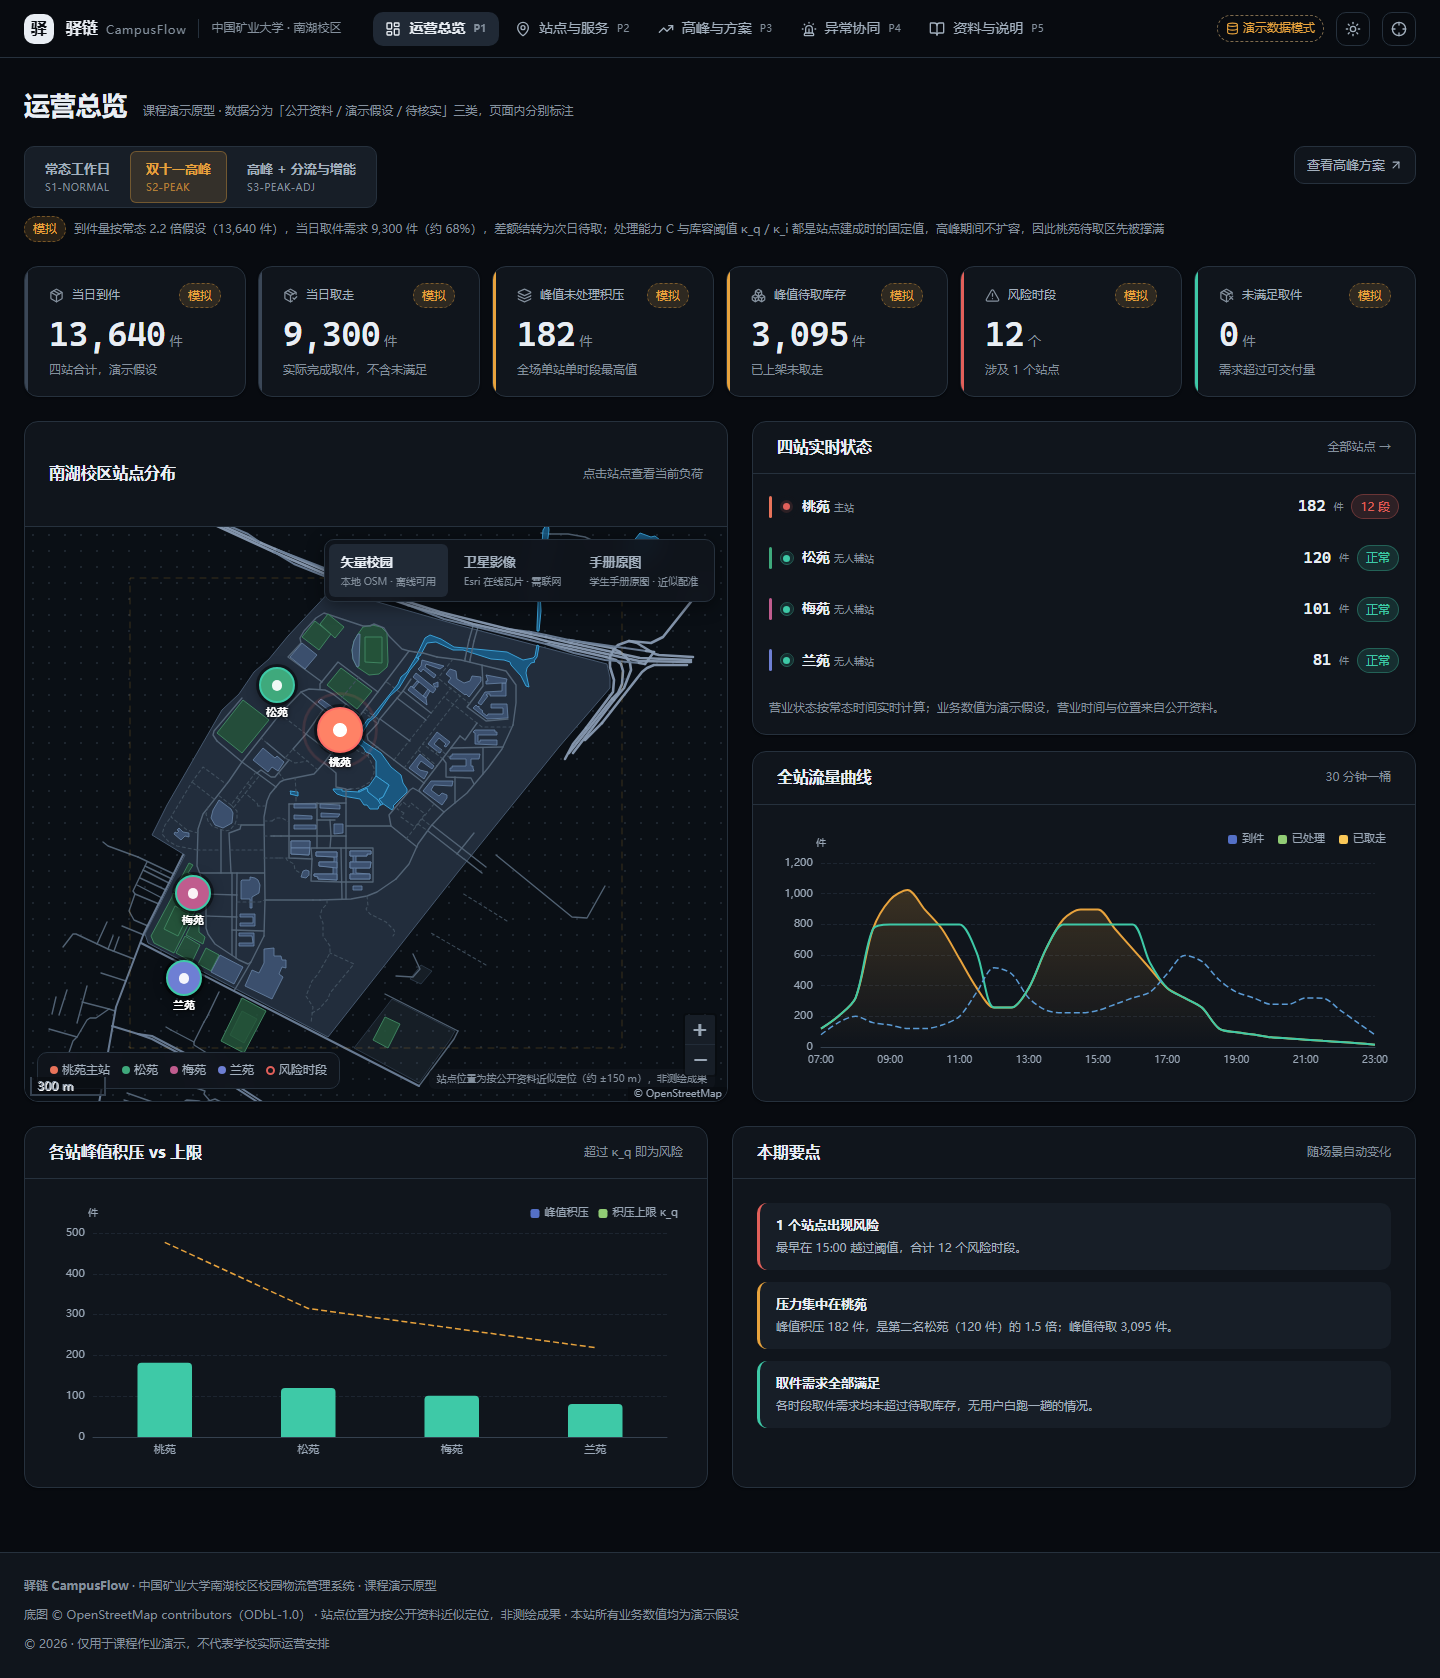
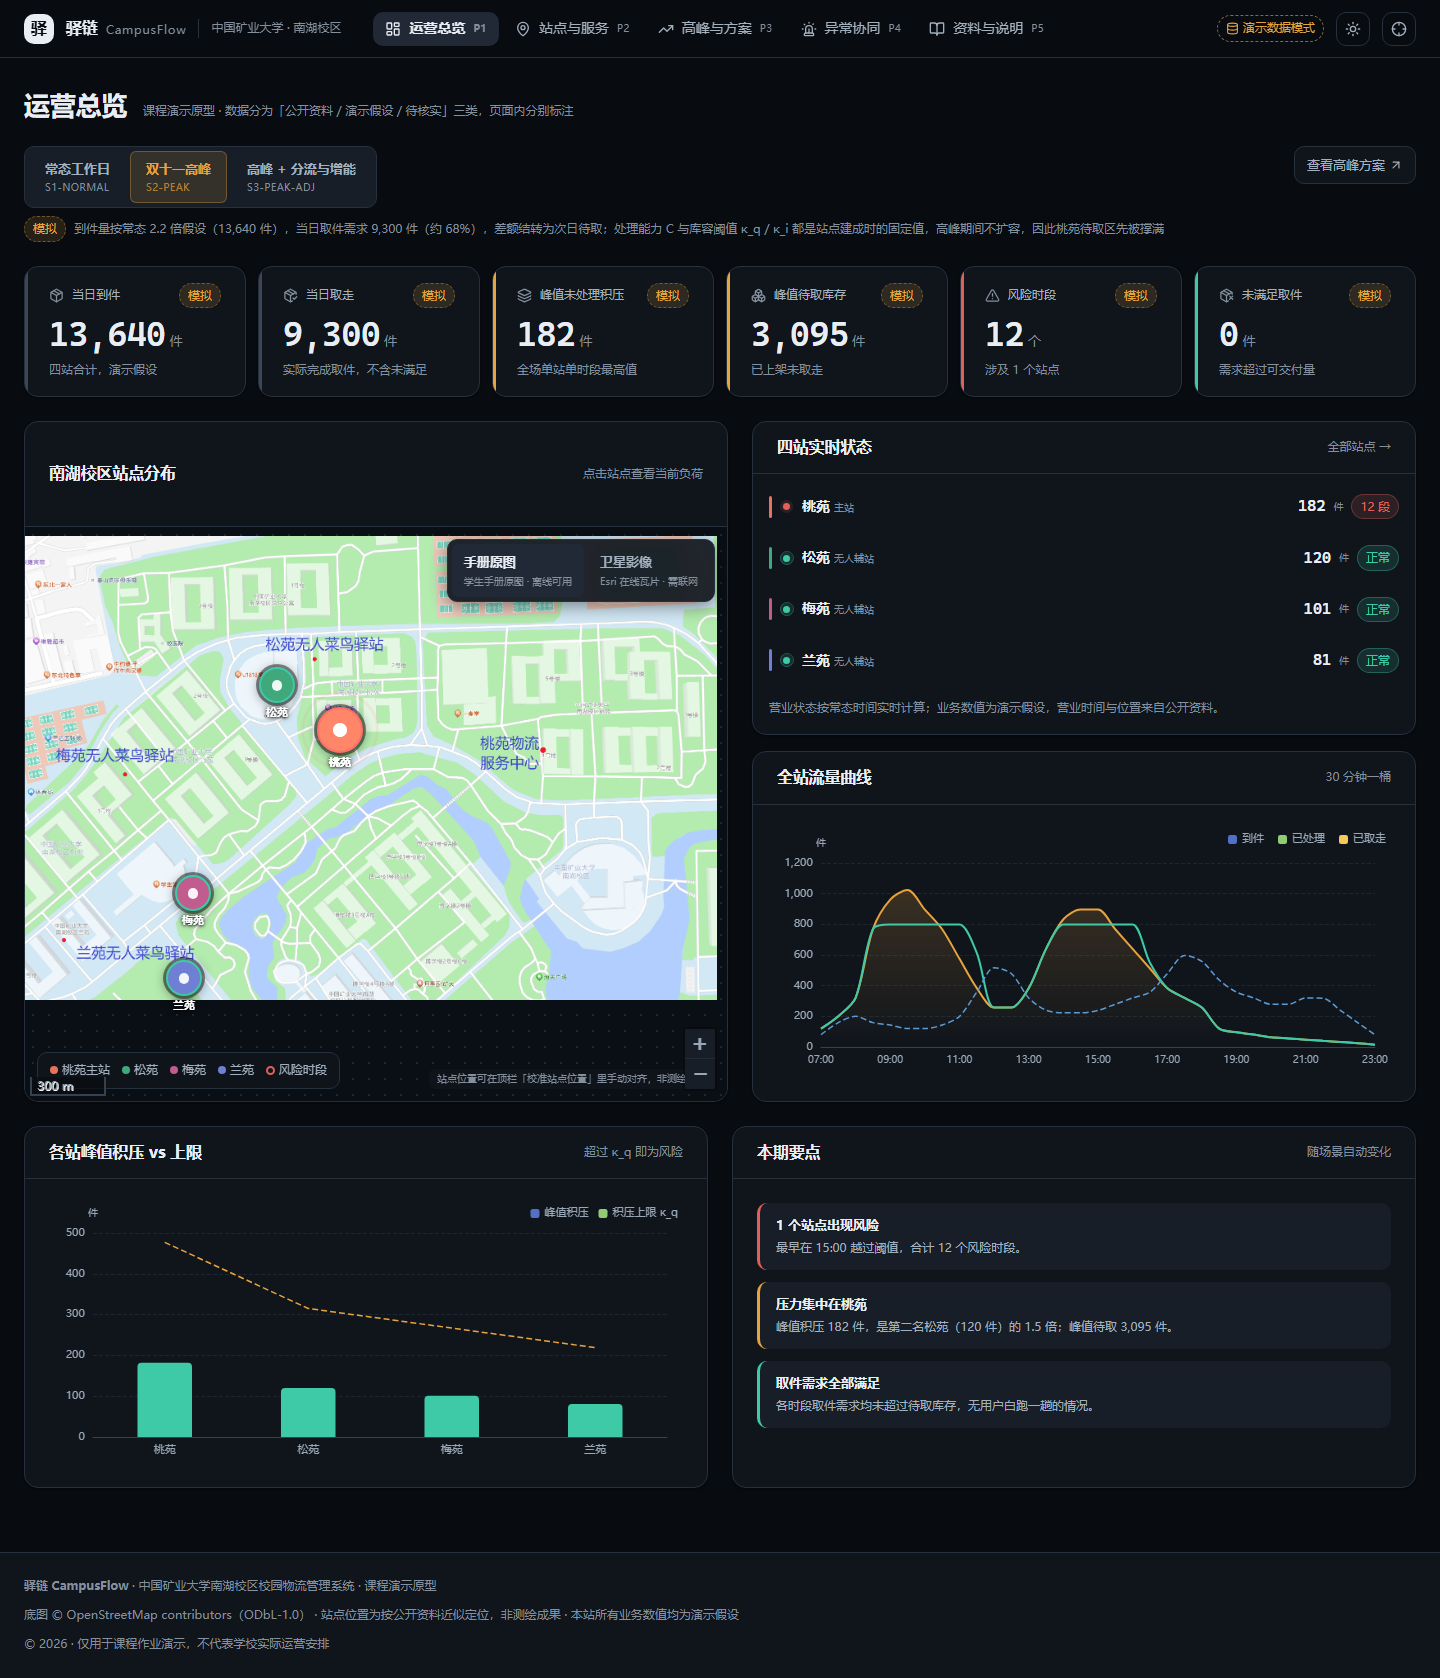
docs(map): 校准面板文案与截图更新；计划文档记录矢量层删除的原因

Changed region(s): [[0.0, 0.3099, 0.5, 0.6508]]

diff --git a/frontend/src/components/CalibratePanel.vue b/frontend/src/components/CalibratePanel.vue
@@ -279,8 +279,8 @@ function reset() {
         <section class="cal" role="dialog" aria-modal="true" aria-label="地图校准">
           <header class="cal__head">
             <div>
-              <h2>地图校准 · 把手册原图对齐到矢量底图</h2>
-              <p>拖动图片、滚轮缩放，让原图的路和楼与底图重合。四个红点位置是固定的，对齐后坐标由程序反算。</p>
+              <h2>地图校准 · 把手册原图对齐到卫星影像</h2>
+              <p>拖动图片、滚轮缩放，让原图的路和操场与卫星影像重合。四个红点的位置是固定的，对齐后坐标由程序反算。</p>
             </div>
             <button class="cal__close" aria-label="关闭" @click="emit('update:open', false)"><X :size="18" /></button>
           </header>
@@ -294,7 +294,7 @@ function reset() {
               @click="switchMode('align')"
             >
               ① 拖动原图对齐
-              <em>原图叠在底图上，拖到路和楼重合</em>
+              <em>原图半透明叠在卫星影像上，拖到重合</em>
             </button>
             <button
               class="cal__mode-btn"
@@ -304,7 +304,7 @@ function reset() {
               @click="switchMode('pick')"
             >
               ② 直接点四个位置
-              <em>按 桃苑 → 松苑 → 梅苑 → 兰苑 的顺序点地图</em>
+              <em>按 桃苑 → 松苑 → 梅苑 → 兰苑 的顺序点</em>
             </button>
             <span v-if="mode === 'pick'" class="cal__progress">
               {{ pickIndex >= 4 ? '已点完，点「应用」生效' : '下一个：' + (SITES[pickIndex]?.shortName ?? '') }}
@@ -351,8 +351,9 @@ function reset() {
                 </tbody>
               </table>
               <p class="cal__hint">
-                对齐后点「应用」，四个站点图标会移到红点上，并记住在本机浏览器里。
-                想写回源码就点「复制 JSON」发给我。
+                对齐后点「应用」，四个站点图标会移到红点上，并记在本机浏览器里；
+                对齐模式下还会一并记住原图的覆盖范围，切回手册原图时红点正好压在图标下。
+                想把这些坐标写回源码，点「复制 JSON」。
               </p>
               <div class="cal__acts">
                 <button class="btn btn--primary" @click="apply"><Check :size="14" /> 应用</button>
